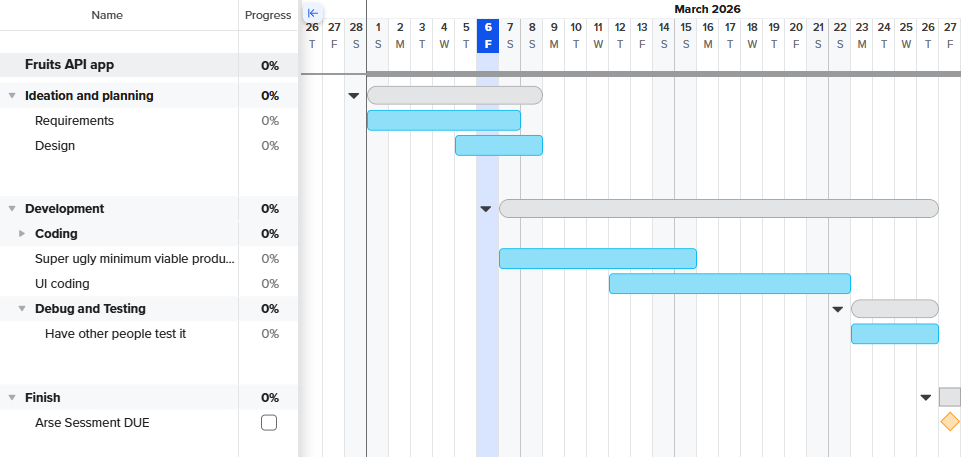
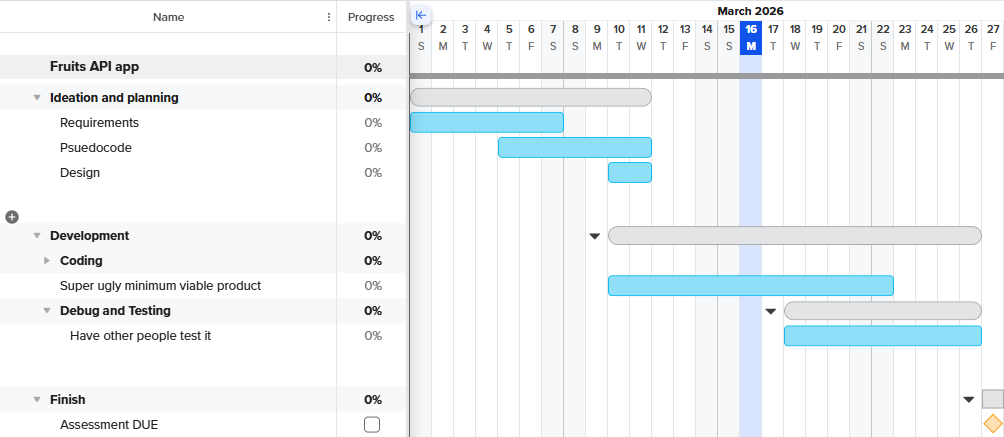
chore: images changed and documentation organised
Flowchart added as an image
Gantt chart schedule modified and no longer says 'Arse sessment'
Replaced most of the 'design' sections with dropdowns to make navigation cleaner

diff --git a/Documentation.md b/Documentation.md
@@ -22,28 +22,45 @@
 
 ### Non-functional
 **Musts:**
-> - User should not be able to see error codes and instead see text corresponding to the error code
-> - Rounded corners GUI
+> - Elegant error handling; user should not see tracebacks
 > - Run on minimal storage and computer power
 
 **Shoulds**
 - GUI should be intuitive; know how to use it upon seeing the front page
+- Rounded corners GUI
 - Data loads and is shown within the second plus request time
 
 ## Design
-**Structure Chart**
+### Structure Chart
+<details>
+<summary>Structure chart</summary>
 ![Structure Chart](md_images/Structure%20chart.jpg)
+</details>
 
-**Flowcharts**
+### Flowchart
 
-[Flowchart link](https://miro.com/app/board/uXjVG2q2jSU=/?share_link_id=23078941805)
+[Flowchart link (recommended)](https://miro.com/app/board/uXjVG2q2jSU=/?share_link_id=23078941805)
+
+<details>
+<summary>Flowchart as an image</summary>
+
 (Dotted borders indicate features that may or may not be included)
+![Flowchart as a picture](md_images/Flowchart.jpg)
+</details>
 
 
-**Gantt Charts**
+
+### Gantt Charts
+<details>
+<summary>Gantt chart</summary>
+
 ![Gantt Chart](md_images/GanttChart.png)
+</details>
 
-**Data Table**
+### Data Table
+<details>
+<summary>Data table</summary>
+
 |Variable                |Type  |Size in Bytes| Description                      |Example	|
 |------------------------|------|-------------|----------------------------------|----------|
 |name                    |String|5 B          |Common name of the fruit          |"Apple"   |
@@ -57,8 +74,12 @@
 |family                  |String|8 B          |Botanical family                  |"Rosaceae"|
 |order                   |String|7 B          |Botanical order                   |"Rosales" |
 |genus                   |String|5 B          |Botanical genus                   |"Malus"   |
+</details>
 
-**GUI designs**
+### GUI designs (unimplemented for now)
+<details>
+<summary>GUI designs</summary>
+
 ![Front page](md_images/GUI%20design%201.png)
 Front page
 
@@ -67,6 +88,7 @@ After user has searched something up
 
 ![Comparing screen](md_images/GUI%20design%203.png)
 Screen for comparison
+</details>
 
 
 ## Integration
